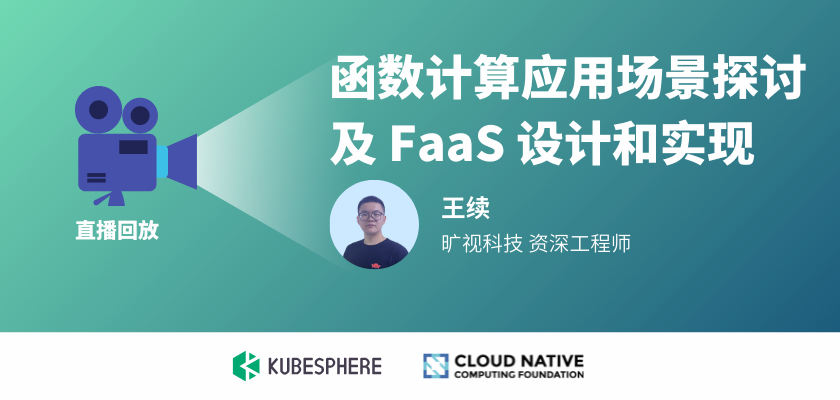
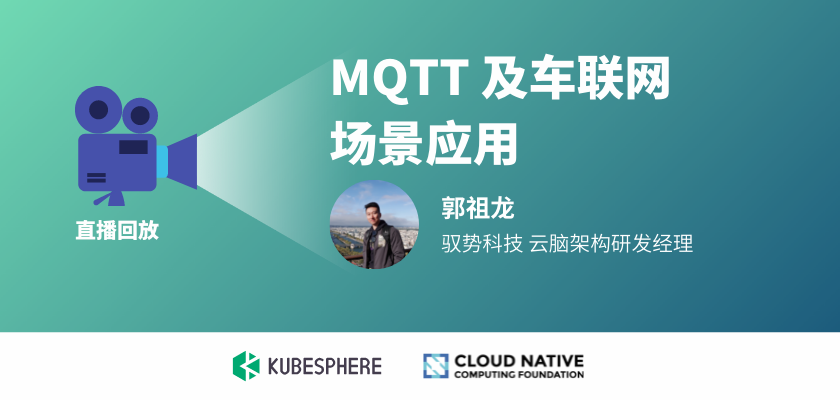
upadate the page of live

diff --git a/content/zh/live/_index.md b/content/zh/live/_index.md
@@ -10,14 +10,14 @@ section1:
 
 section2:
   image: /images/live/cloudnative-live-banner.png
-  url: ./faas1223-live/
+  url: ./mqtt1230-live/
 
   notice:
-    title: MQTT 及车联网场景应用
-    tag: 预告
-    time: 2021 年 12 月 30 日晚 8 点
+    title: 函数计算应用场景探讨及 FaaS 设计和实现
+    tag: 结束
+    time: 2021 年 12 月 23 日晚 8 点
     base: 线上
-    url: ./mqtt1230-live/
+    url: ./faas1223-live/
 
   over:
     title: 携程分布式存储实践
@@ -26,6 +26,13 @@ section2:
 
 section3:
   videos:
+    - title: MQTT 及车联网场景应用
+      link: ./mqtt1230-live/
+      snapshot: https://pek3b.qingstor.com/kubesphere-community/images/mqtt1230-live-cover.png
+      type: iframe
+      createTime: 2021.12.30
+      group: 直播回放
+
     - title: 函数计算应用场景探讨及 FaaS 设计和实现
       link: ./faas1223-live/
       snapshot: https://pek3b.qingstor.com/kubesphere-community/images/faas1223-live-cover.png

diff --git a/content/zh/live/mqtt1230-live.md b/content/zh/live/mqtt1230-live.md
@@ -6,7 +6,7 @@ css: scss/live-detail.scss
 
 section1:
   snapshot: 
-  videoUrl: 
+  videoUrl: //player.bilibili.com/player.html?aid=422780369&bvid=BV133411i7JM&cid=473091163&page=1&high_quality=1
   type: iframe
   time: 2021-12-30 20:00-21:00
   timeIcon: /images/live/clock.svg
@@ -36,5 +36,9 @@ section1:
 ## 直播地址
 
 B 站  http://live.bilibili.com/22580654
+
+## PPT 下载
+
+可扫描官网底部二维码，关注 「KubeSphere云原生」公众号，后台回复 `20211230` 即可下载 PPT。
 
 
